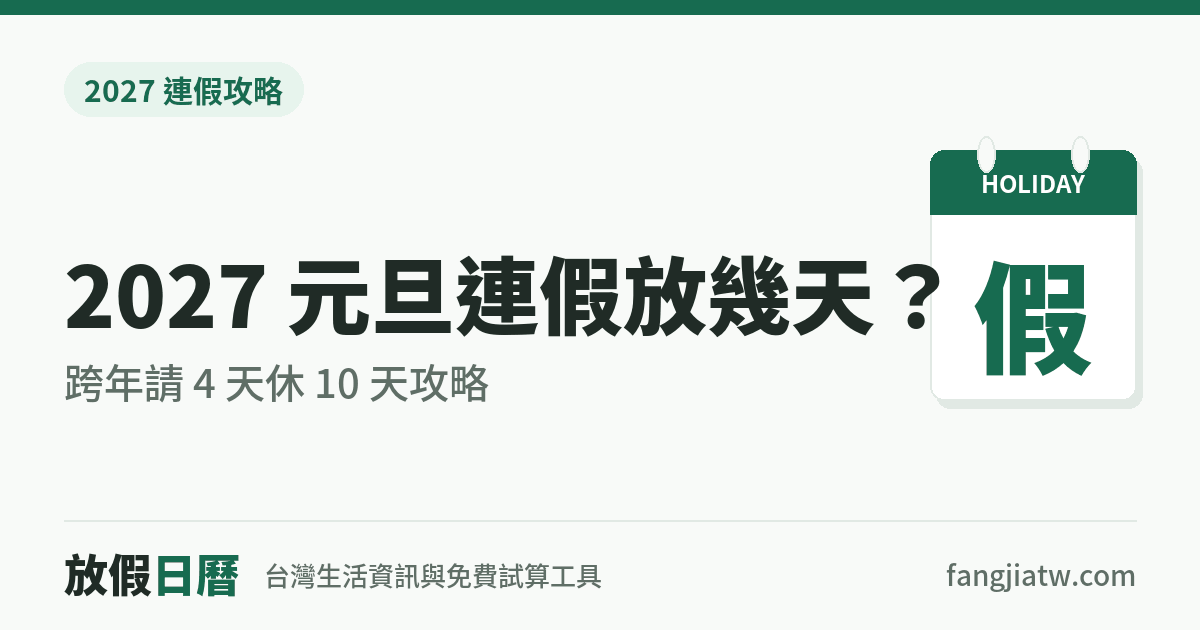
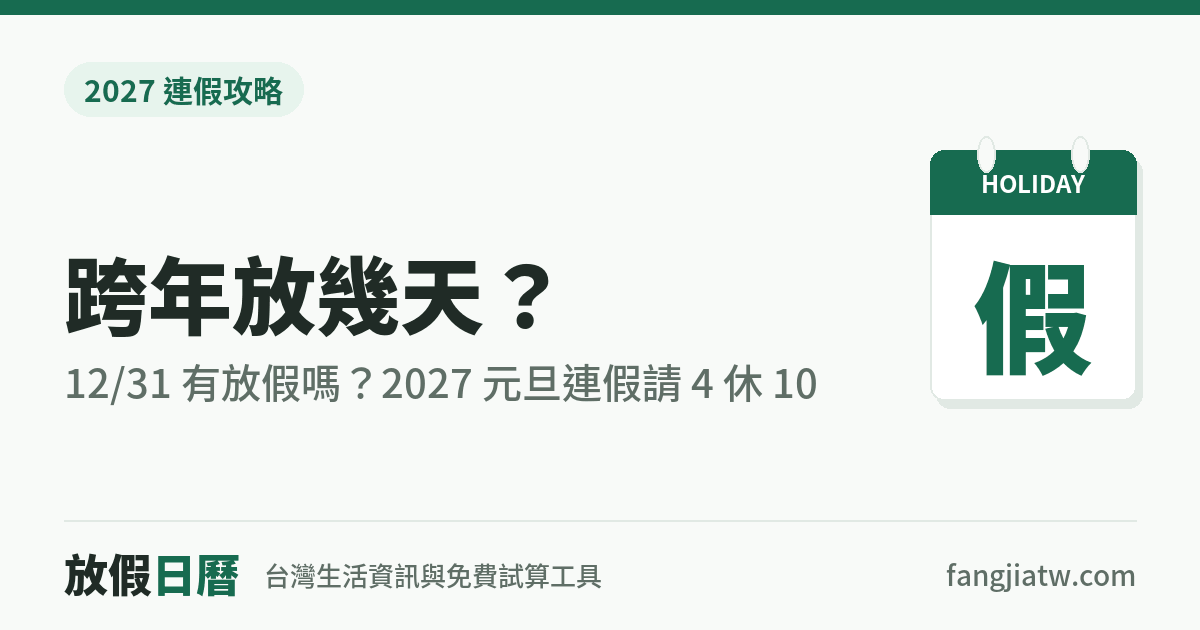
Yuandan page: retitle for 跨年 queries, answer-first intro, this-year vs next-year 跨年 table, 跨年禮拜幾 FAQ

Changed region(s): [[0.0308, 0.3921, 0.8017, 0.5429], [0.0308, 0.573, 0.6783, 0.6333]]

diff --git a/2027/yuandan/index.html b/2027/yuandan/index.html
@@ -3,15 +3,15 @@
 <head>
 <meta charset="utf-8">
 <meta name="viewport" content="width=device-width,initial-scale=1,viewport-fit=cover">
-<title>2027 元旦連假放幾天？跨年請 4 天休 10 天攻略｜放假日曆</title>
-<meta name="description" content="2027 元旦連假放 3 天，1/1（五）到 1/3（日），不用補班。跨年夜 12/31 是上班日，請 1 天可休 4 天、請 4 天可從聖誕節連休 10 天。">
+<title>跨年放幾天？12/31 有放假嗎？2027 元旦連假請 4 休 10｜放假日曆</title>
+<meta name="description" content="2026 跨年夜 12/31（四）不放假，2027 元旦 1/1～1/3 連休 3 天、不用補班。請 1 天特休可休 4 天，請 4 天從聖誕節連休 10 天；2027 年底跨年 12/31 補假，當天就放假。">
 <link rel="canonical" href="https://fangjiatw.com/2027/yuandan/">
 <link rel="icon" href="/favicon.ico" sizes="48x48">
 <link rel="icon" href="/favicon.svg" type="image/svg+xml">
 <link rel="apple-touch-icon" href="/apple-touch-icon.png">
 <meta property="og:type" content="article">
-<meta property="og:title" content="2027 元旦連假放幾天？跨年請 4 天休 10 天攻略">
-<meta property="og:description" content="2027 元旦放 3 天，1/1–1/3，不用補班。聖誕節接跨年，請 4 天連休 10 天。">
+<meta property="og:title" content="跨年放幾天？12/31 有放假嗎？2027 元旦連假請 4 休 10">
+<meta property="og:description" content="跨年夜 12/31（四）要上班，元旦 1/1～1/3 放 3 天、不用補班。聖誕節接跨年，請 4 天連休 10 天。">
 <meta property="og:url" content="https://fangjiatw.com/2027/yuandan/">
 <meta property="og:image" content="https://fangjiatw.com/assets/og/2027-yuandan.png">
 <meta property="og:image:width" content="1200">
@@ -26,9 +26,9 @@
   "@graph":[
     {
       "@type":"Article",
-      "headline":"2027 元旦連假放幾天？跨年請 4 天休 10 天攻略",
+      "headline":"跨年放幾天？12/31 有放假嗎？2027 元旦連假請 4 休 10",
       "datePublished":"2026-11-01",
-      "dateModified":"2026-11-01",
+      "dateModified":"2026-11-16",
       "inLanguage":"zh-Hant-TW",
       "mainEntityOfPage":"https://fangjiatw.com/2027/yuandan/",
       "publisher":{"@type":"Organization","name":"放假日曆","url":"https://fangjiatw.com/"}
@@ -43,6 +43,7 @@
     {
       "@type":"FAQPage",
       "mainEntity":[
+        {"@type":"Question","name":"跨年是禮拜幾？","acceptedAnswer":{"@type":"Answer","text":"2026 年 12 月 31 日跨年夜是星期四，2027 年 1 月 1 日元旦是星期五。下一次跨年，2027 年 12 月 31 日是星期五。"}},
         {"@type":"Question","name":"2027 年元旦連假放幾天？","acceptedAnswer":{"@type":"Answer","text":"3 天。2027 年 1 月 1 日是星期五，從 1/1（五）放到 1/3（日），1/4（一）上班。"}},
         {"@type":"Question","name":"2027 年元旦需要補班嗎？","acceptedAnswer":{"@type":"Answer","text":"不用。元旦剛好是星期五，直接接上週末，沒有調整上班日，也沒有補班。"}},
         {"@type":"Question","name":"2026 年 12 月 31 日跨年夜有放假嗎？","acceptedAnswer":{"@type":"Answer","text":"沒有。12/31（四）是一般上班日。想參加跨年活動又不想下班趕場，可以請 12/31 一天特休，連休 4 天。"}},
@@ -72,15 +73,31 @@
 <main class="article">
   <div>
     <div class="crumb"><a href="/">放假日曆</a> › 2027 元旦連假</div>
-    <h1>2027 元旦連假放幾天？<br>跨年請 4 天休 10 天攻略</h1>
-    <div class="meta">更新日期：2026 年 11 月 1 日 · 資料來源：人事行政總處</div>
+    <h1>跨年放幾天？12/31 有放假嗎？<br>2027 元旦請 4 天休 10 天</h1>
+    <div class="meta">發布日期：2026 年 11 月 1 日 · 最後更新：2026 年 11 月 16 日 · 資料來源：人事行政總處</div>
   </div>
 
   <div class="answer">
-    2027 年元旦連假放 <b>3 天</b>！從 <b>1 月 1 日（五）</b>放到 <b>1 月 3 日（日）</b>，而且<b>不用補班</b>。要注意的是，<b>12/31 跨年夜當天要上班</b>。
+    今年跨年夜 <b>2026/12/31 是星期四，要上班</b>，不是國定假日。元旦連假放 <b>3 天</b>，從 <b>1 月 1 日（五）</b>放到 <b>1 月 3 日（日）</b>，而且<b>不用補班</b>。想跨年隔天不用早起，請 12/31 一天特休就能連休 4 天。
   </div>
 
   <p>跨年夜剛好是星期四，下班後再趕去跨年現場有點累。好消息是，前一週的 12/25 行憲紀念日也是三天連假，中間只隔 4 個上班日。請 1 天就能從跨年夜開始放，請 4 天更能把聖誕節和元旦串成 10 天長假！</p>
+
+  <section>
+    <h2>今年跨年 vs. 明年跨年：放假差在哪？</h2>
+    <p>搜尋「2027 跨年」時常會搞混是哪一次跨年，兩次的放法剛好相反：</p>
+    <div class="tbl">
+      <table>
+        <thead><tr><th></th><th>今年<br>2026→27</th><th>明年<br>2027→28</th></tr></thead>
+        <tbody>
+          <tr><td>12/31</td><td>週四 <b>上班</b></td><td>週五 <b>補假</b></td></tr>
+          <tr><td>1/1 元旦</td><td>週五</td><td>週六</td></tr>
+          <tr><td>連假</td><td class="num">1/1～1/3<br>3 天</td><td class="num">12/31～1/2<br>3 天</td></tr>
+        </tbody>
+      </table>
+    </div>
+    <p class="note" style="margin-top:8px">2027 年底的補假依人事行政總處 116 年辦公日曆表：2028 年元旦落在星期六，所以提前在 2027/12/31（五）補假。</p>
+  </section>
 
   <section>
     <h2>2027 元旦請假懶人比較</h2>
@@ -160,6 +177,7 @@
 
   <section>
     <h2>常見問題</h2>
+    <details><summary>跨年是禮拜幾？</summary><p>2026 年 12 月 31 日跨年夜是星期四，2027 年 1 月 1 日元旦是星期五。下一次跨年，2027 年 12 月 31 日是星期五。</p></details>
     <details><summary>2027 年元旦連假放幾天？</summary><p>3 天。2027 年 1 月 1 日是星期五，從 1/1（五）放到 1/3（日），1/4（一）上班。</p></details>
     <details><summary>2027 年元旦需要補班嗎？</summary><p>不用。元旦剛好是星期五，直接接上週末，沒有調整上班日，也沒有補班。</p></details>
     <details><summary>2026 年 12 月 31 日跨年夜有放假嗎？</summary><p>沒有。12/31（四）是一般上班日。想參加跨年活動又不想下班趕場，可以請 12/31 一天特休，連休 4 天。</p></details>
@@ -169,7 +187,7 @@
 
   <section>
     <h2>開始規劃你的跨年假期</h2>
-    <p>離跨年只剩兩個月，年底的特休記得先跟主管排好！想出國或跨縣市跨年，機票和住宿越早訂，選擇越多。</p>
+    <p>年底請特休的人多，想在 12/31 或聖誕節那週休假，記得提早跟主管排好！想出國或跨縣市跨年，機票和住宿越早訂，選擇越多。</p>
     <p>2027 年還有不少連假，可以用本站的<a href="/#planner">請假計算器</a>，搭配 <a href="/#calendar">2027 全年行事曆</a>，提早把明年的特休排好。</p>
   </section>
 
